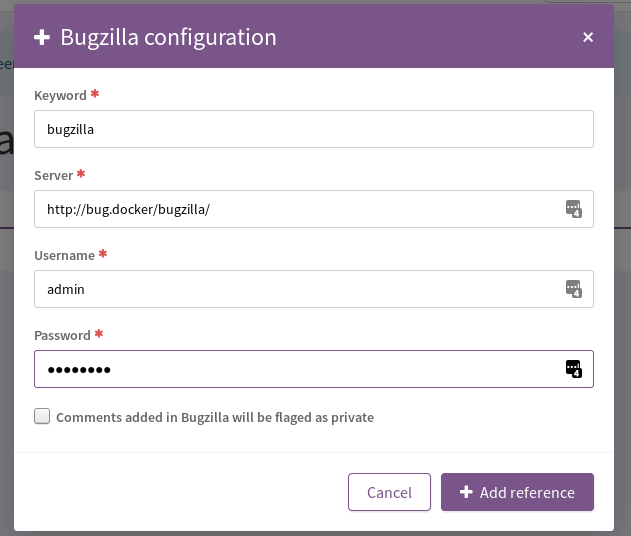
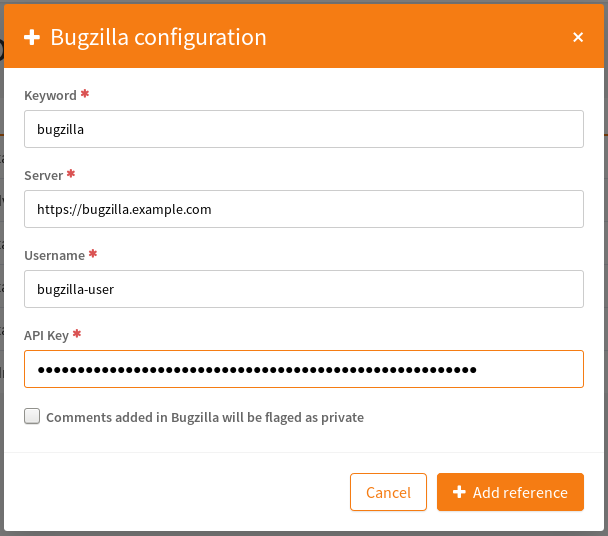
Bugzilla reference plugin now uses an API key instead of the user's password

Changed region(s): [[0.0, 0.0, 1.0, 1.0]]

diff --git a/languages/en/deployment-guide/intro.rst b/languages/en/deployment-guide/intro.rst
@@ -7,6 +7,14 @@ file, the default is automatically set for you.
 9.9
 ===
 
+Bugzilla reference plugin uses API key instead of the user's password
+---------------------------------------------------------------------
+
+If you had configured Bugzilla servers you must edit them to provide an API key
+instead of the user's password that was previously used. Please refer to the
+`Bugzilla documentation <https://bugzilla.readthedocs.io/en/latest/using/preferences.html#api-keys>`_
+if you need help to get an API key. 
+
 Packages in Tuleap repository are now signed
 --------------------------------------------
 
